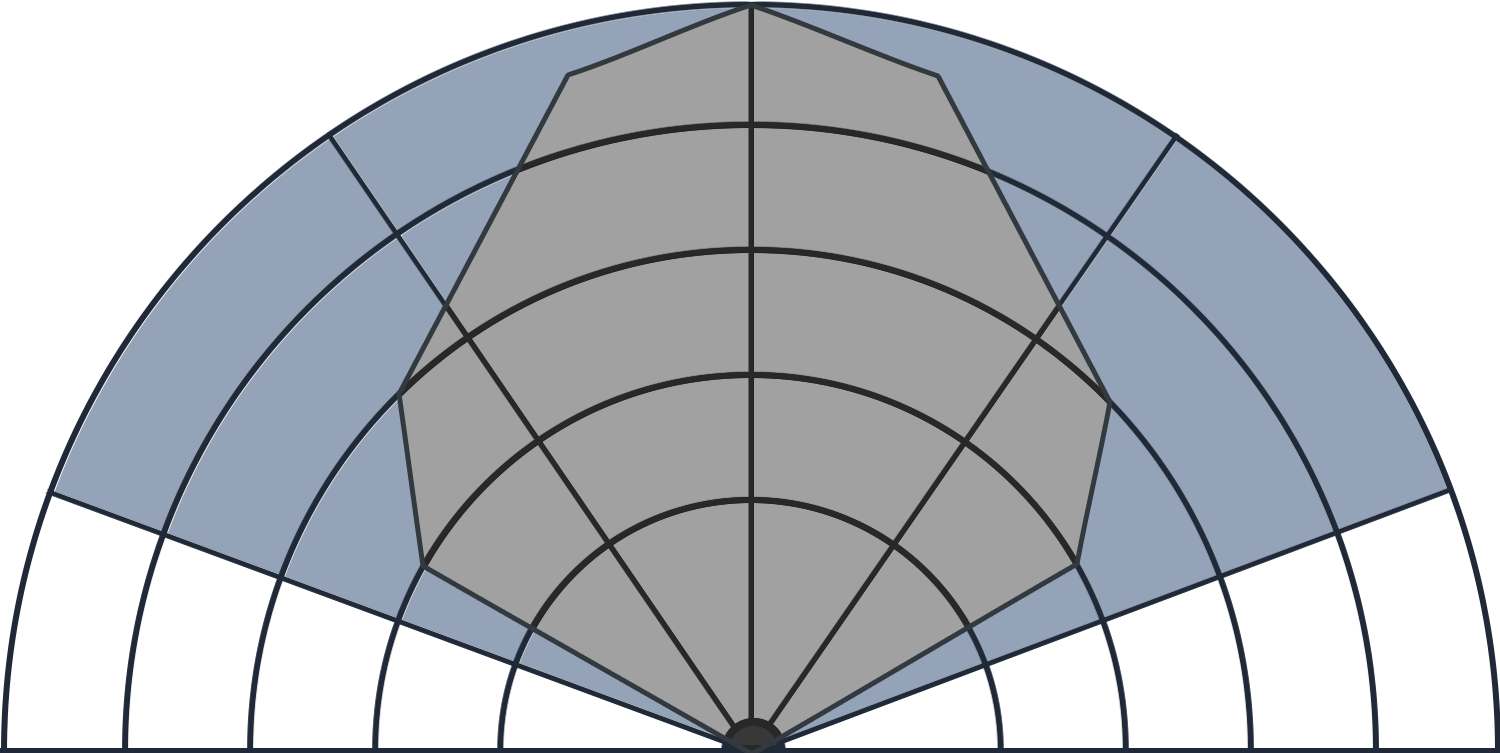
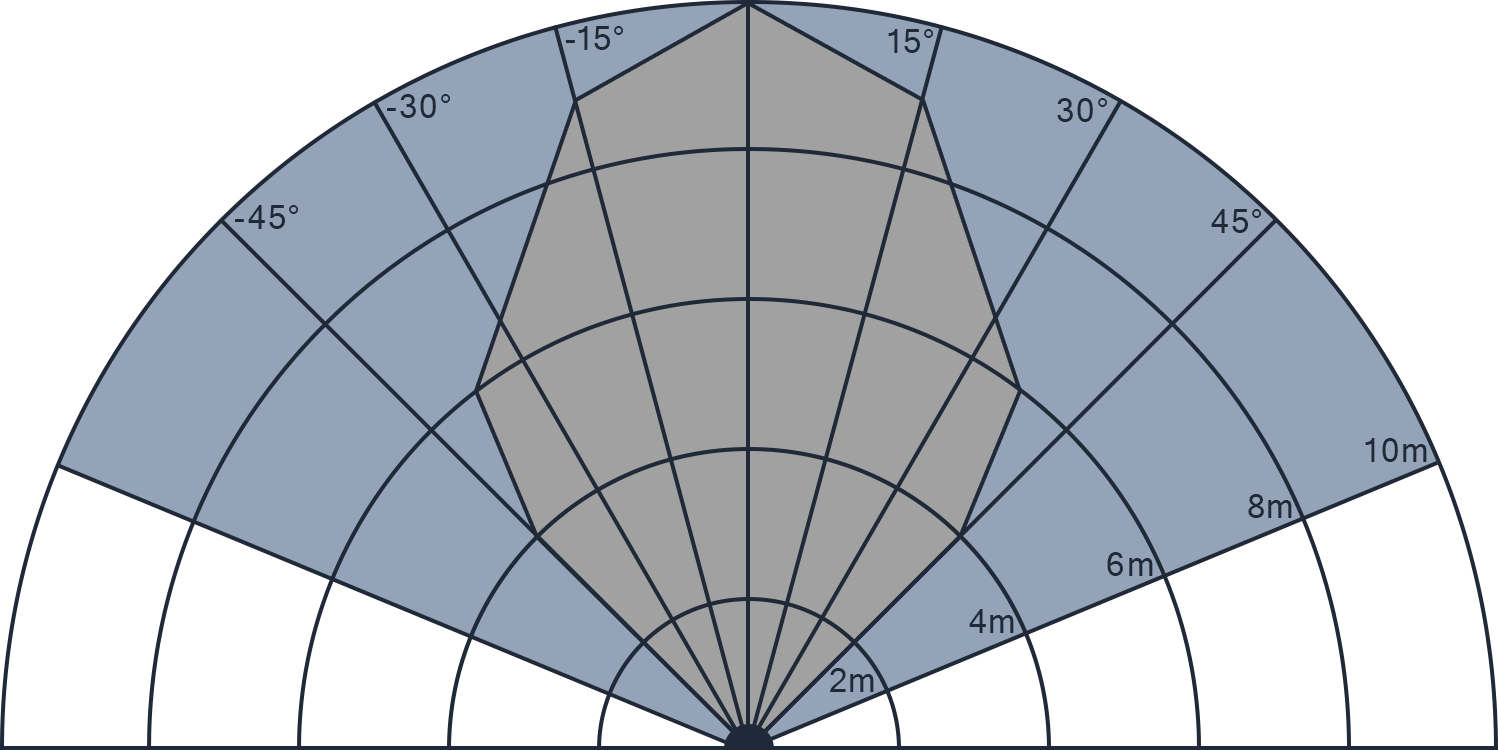
Update the radar background image and update the radar point scaling and shadow

diff --git a/webapp/app/static/scripts/scripts.js b/webapp/app/static/scripts/scripts.js
@@ -120,11 +120,18 @@ document.addEventListener('DOMContentLoaded', () => {
   const heatmapRefreshRate = 100;
   const gatesHeatmapRefreshRate = 333;
   const systemStatusInterval = 2000;
+
+  const radarMaxDistance = 10_000;
   
-  var btnDefaultColor = '#1F2937';
-  var btnActiveColor = '#78350F';
-  var btnSelectedColor = '#D1D5DB';
-  var btnUnselectedColor = '#94A3B7';
+  // Sidebar Tab
+  const btnSelectedColor = '#D1D5DB';
+  const btnUnselectedColor = '#94A3B7';
+  // Status Bar Icons
+  const statusBarActiveColor = 'limegreen';
+  const statusBarInactiveColor = 'brown';
+  // Floating Buttons
+  const btnDefaultColor = '#1F2937';
+  const btnActiveColor = '#78350F';
 
   const amplitudeHeatmap = simpleheat(amplitudeCanvas);
   const phaseHeatmap = simpleheat(phaseCanvas);
@@ -525,12 +532,12 @@ document.addEventListener('DOMContentLoaded', () => {
 
   function scaleXToRadar(x, width) {
     x = parseInt(x)
-    return Math.floor((x / 6000) * (width / 2));
+    return Math.floor((x / radarMaxDistance) * (width / 2));
   }
 
   function scaleYToRadar(y, height) {
     y = parseInt(y)
-    return Math.floor((y / 6000) * height);
+    return Math.floor((y / radarMaxDistance) * height);
   }
 
   function list_csv_files() {
@@ -571,36 +578,37 @@ document.addEventListener('DOMContentLoaded', () => {
 
   /* Elements Event Listener */
 
+
   function checkSystemStatus() {
     fetch('/check_system_status', { method: "POST" })
       .then(response => response.json())
       .then(data => {
-        if (data.ap) apStatus.style.fill = "limegreen";
-        else apStatus.style.fill = "brown";
+        if (data.ap) apStatus.style.fill = statusBarActiveColor;
+        else apStatus.style.fill = statusBarInactiveColor;
         
-        flaskStatus.style.fill = "limegreen";
+        flaskStatus.style.fill = statusBarActiveColor;
 
-        if (data.esp32) esp32Status.style.fill = "limegreen";
-        else esp32Status.style.fill = "brown";
+        if (data.esp32) esp32Status.style.fill = statusBarActiveColor;
+        else esp32Status.style.fill = statusBarInactiveColor;
         
-        if (data.ld2420) ld2420Status.style.fill = "limegreen";
-        else ld2420Status.style.fill = "brown";
+        if (data.ld2420) ld2420Status.style.fill = statusBarActiveColor;
+        else ld2420Status.style.fill = statusBarInactiveColor;
 
-        if (data.rd03d) rd03dStatus.style.fill = "limegreen";
-        else rd03dStatus.style.fill = "brown";
+        if (data.rd03d) rd03dStatus.style.fill = statusBarActiveColor;
+        else rd03dStatus.style.fill = statusBarInactiveColor;
 
-        if (data.port) portStatus.style.fill = "limegreen";
-        else portStatus.style.fill = "brown";
+        if (data.port) portStatus.style.fill = statusBarActiveColor;
+        else portStatus.style.fill = statusBarInactiveColor;
 
-        if (data.model) modelStatus.style.fill = "limegreen";
-        else modelStatus.style.fill = "brown";
+        if (data.model) modelStatus.style.fill = statusBarActiveColor;
+        else modelStatus.style.fill = statusBarInactiveColor;
       })
       .catch(err => {
-        flaskStatus.style.fill = "brown";
-        esp32Status.style.fill = "brown";
-        ld2420Status.style.fill = "brown";
-        rd03dStatus.style.fill = "brown";
-        modelStatus.style.fill = "brown";
+        flaskStatus.style.fill = statusBarInactiveColor;
+        esp32Status.style.fill = statusBarInactiveColor;
+        ld2420Status.style.fill = statusBarInactiveColor;
+        rd03dStatus.style.fill = statusBarInactiveColor;
+        modelStatus.style.fill = statusBarInactiveColor;
       });
   }
 

diff --git a/webapp/app/static/styles/styles.css b/webapp/app/static/styles/styles.css
@@ -1,14 +1,15 @@
 :root {
     --primary-color: #1F2937;
-    --secondary-color: #773512;
+    --secondary-color: #78350F;
     --background-color: #94A3B7;
 }
 
 .point {
-    width: 18px;
-    height: 18px;
-    background-color: maroon;
+    width: 15px;
+    height: 15px;
+    background-color: var(--secondary-color);
     border-radius: 50%;
+    box-shadow: 0px 0px 0px 15px rgba(120, 53, 15, 0.2);
     position: absolute;
     transform: translate(-50%, -50%);
 }
